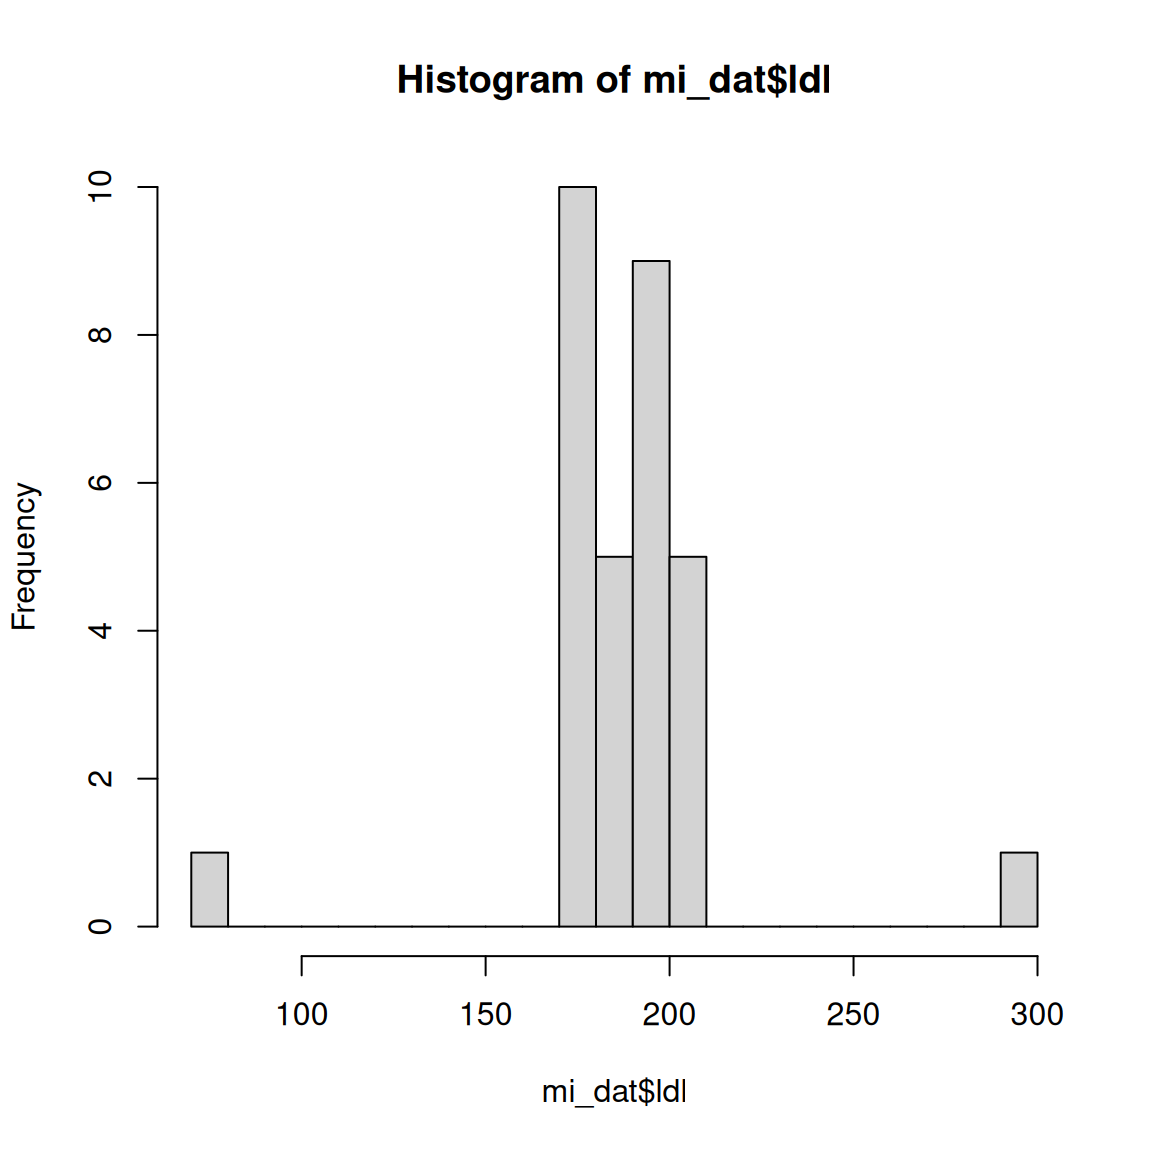
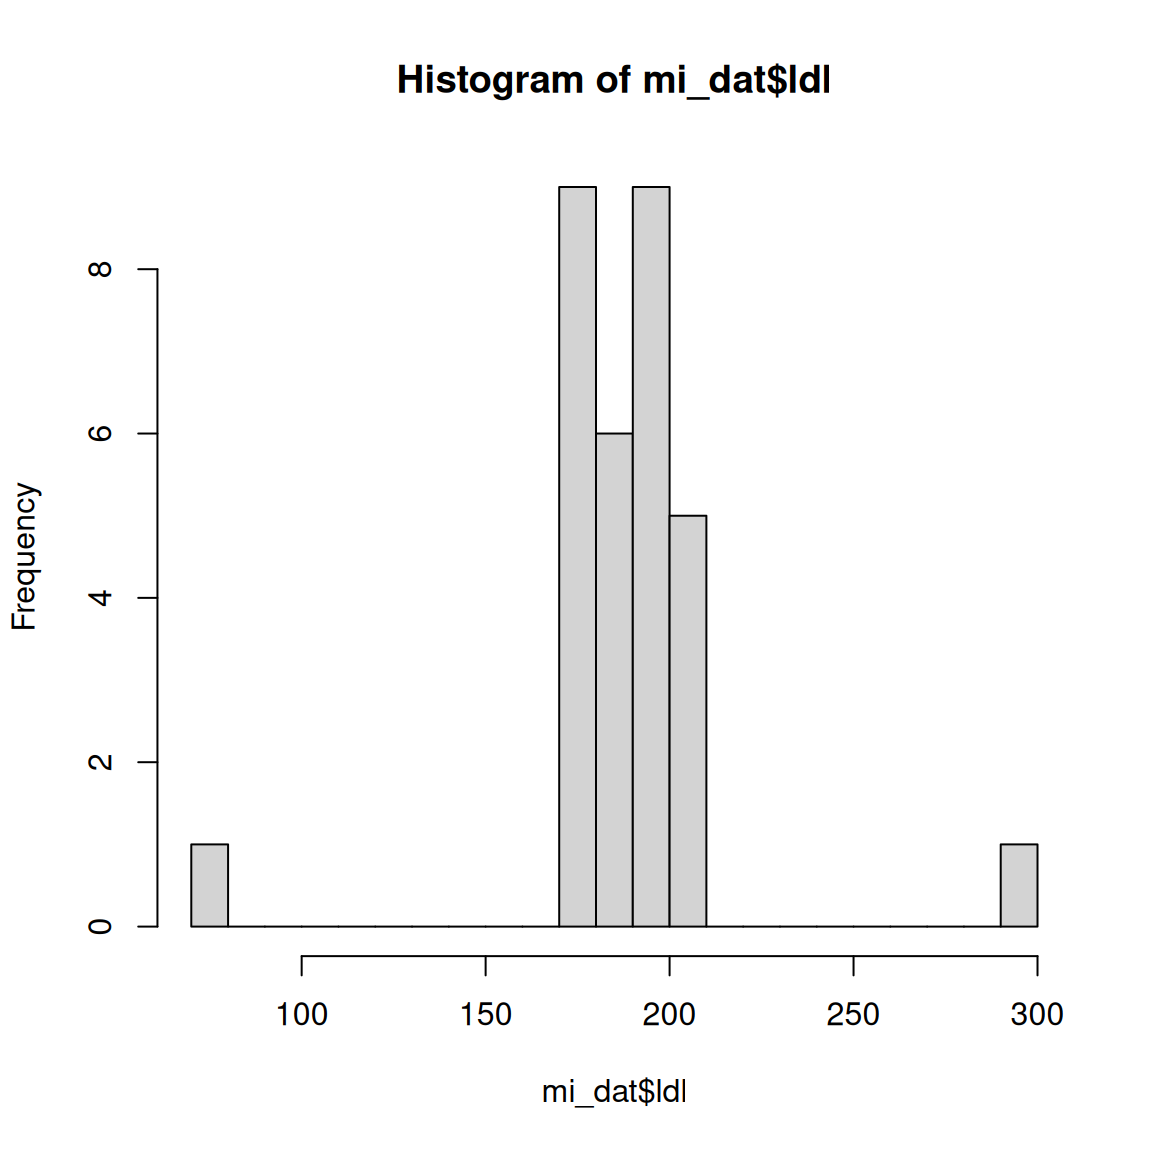
Update rendered slides

diff --git a/docs/statistics/bootstrap/index.html b/docs/statistics/bootstrap/index.html
@@ -199,43 +199,43 @@ Nozomi Niimi
 <tbody>
 <tr class="odd">
 <td style="text-align: right;">1</td>
-<td style="text-align: right;">20.33433</td>
+<td style="text-align: right;">23.88619</td>
 </tr>
 <tr class="even">
 <td style="text-align: right;">2</td>
-<td style="text-align: right;">20.97144</td>
+<td style="text-align: right;">20.97399</td>
 </tr>
 <tr class="odd">
 <td style="text-align: right;">3</td>
-<td style="text-align: right;">21.68776</td>
+<td style="text-align: right;">17.50689</td>
 </tr>
 <tr class="even">
 <td style="text-align: right;">4</td>
-<td style="text-align: right;">24.96396</td>
+<td style="text-align: right;">18.85173</td>
 </tr>
 <tr class="odd">
 <td style="text-align: right;">5</td>
-<td style="text-align: right;">18.68128</td>
+<td style="text-align: right;">22.60510</td>
 </tr>
 <tr class="even">
 <td style="text-align: right;">6</td>
-<td style="text-align: right;">23.82536</td>
+<td style="text-align: right;">20.47290</td>
 </tr>
 <tr class="odd">
 <td style="text-align: right;">7</td>
-<td style="text-align: right;">22.64816</td>
+<td style="text-align: right;">17.64448</td>
 </tr>
 <tr class="even">
 <td style="text-align: right;">8</td>
-<td style="text-align: right;">21.13426</td>
+<td style="text-align: right;">17.92691</td>
 </tr>
 <tr class="odd">
 <td style="text-align: right;">9</td>
-<td style="text-align: right;">18.26720</td>
+<td style="text-align: right;">23.31361</td>
 </tr>
 <tr class="even">
 <td style="text-align: right;">10</td>
-<td style="text-align: right;">21.86513</td>
+<td style="text-align: right;">19.24394</td>
 </tr>
 </tbody>
 </table>
@@ -331,20 +331,20 @@ Nozomi Niimi
 <tbody>
 <tr class="odd">
 <td style="text-align: right;">1</td>
-<td style="text-align: right;">73.10022</td>
-<td style="text-align: right;">198.9611</td>
+<td style="text-align: right;">71.24301</td>
+<td style="text-align: right;">198.6178</td>
 <td style="text-align: left;"></td>
 </tr>
 <tr class="even">
 <td style="text-align: right;">2</td>
-<td style="text-align: right;">73.98809</td>
-<td style="text-align: right;">191.6691</td>
+<td style="text-align: right;">77.12323</td>
+<td style="text-align: right;">186.6891</td>
 <td style="text-align: left;"></td>
 </tr>
 <tr class="odd">
 <td style="text-align: right;">3</td>
-<td style="text-align: right;">80.01875</td>
-<td style="text-align: right;">172.0664</td>
+<td style="text-align: right;">73.25294</td>
+<td style="text-align: right;">174.6786</td>
 <td style="text-align: left;"></td>
 </tr>
 <tr class="even">

diff --git a/statistics/mlcausal/custom-style.scss b/statistics/mlcausal/custom-style.scss
@@ -1,0 +1,57 @@
+/*-- scss:defaults --*/
+// 以下でフォント、色、ボーダーなどに影響する変数を定義する
+$primary-color: #2c3e50;
+$secondary-color: #34495e;
+$heading-font-size: 2.5em;
+$body-font-size: 1.5em;
+$font-family: 'Helvetica Neue', Helvetica, Arial, sans-serif;
+$line-height: 1.5;
+$border-radius: 5px;
+$list-font-size: 0.9em;
+$list-nested-ratio: 0.9;
+/*-- scss:rules --*/
+// 以下でCSSルールを作成する
+
+.reveal h1 {
+    color: #2c3e50;
+    font-size: 2.5em !important;
+    text-align: center;
+  }
+  
+.reveal h2 {
+    color: #34495e;
+    font-size: 2em;
+    text-align: left;
+  }
+
+.reveal h3 {
+    color: #34495e;
+    font-size: 1.5em;
+    text-align: left;
+    text-indent: 1.5em;
+
+  }
+  // リストの基本スタイル
+.reveal ul, .reveal ol {
+    font-size: $list-font-size;
+    margin-left: 1.5em;
+}
+
+// ネストされたリストのスタイル
+.reveal ul ul, .reveal ol ol,
+.reveal ul ol, .reveal ol ul {
+    font-size: calc($list-font-size * $list-nested-ratio);
+    margin-left: 1.5em;
+}
+
+  @media (max-width: 768px) {
+  .reveal h1 {
+    font-size: 2em;
+  }
+  .reveal h2 {
+    font-size: 1.5em;
+  }
+  .reveal h3 {
+    font-size: 1.2em;
+  }
+}
